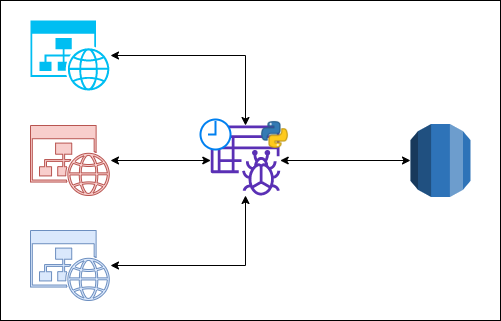
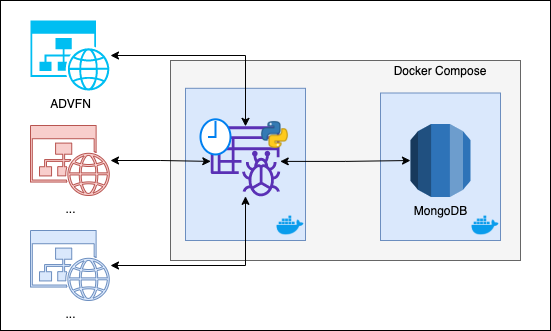
documentando

diff --git a/README.md b/README.md
@@ -5,8 +5,45 @@ Este projeto contem uma aplicação que realiza o processo de coleta de fatos e 
 Atualmente, temos os seguintes portais integrados a solução:
 - https://br.advfn.com/
 
-Os dados são coletados, regularmente, por um *web scrapper* e armezenados em banco de dados PostgreSQL.
+Os dados são coletados, regularmente, por um *web scrapper* e armezenados em banco de dados MongoDB.
 
 ![process-diagram](assets/enju3-scrapper.png)
+
+## Dependências
+
+Este projeto utiliza as seguinte tecnologias:
+
+- Python: linguagem de programação utilizada para implementação do scrapper utilizando as seguinte bibliotecas
+  - ABC: para criação de classe abstrata do scrapper, que poderá ser implementada para novos portais/sites
+  - Logging: para criação de logs da aplicação
+  - Requests: para realizar as requisições aos sites
+  - PyMongo: para interagir com o MongoDB
+  - BS4: para interagir com o conteúdo HTML da página
+- Docker: para encapsular tanto aplicação de scrapping quanto o banco MongoDB
+- Docker Compose: para orquestração dos contêineres do serviço
+
+## Como executar
+
+Para a execução deste projeto se faz necessário as instalação do docker e do docker-compose.
+
+Executando o comando abaixo serão provisionados todos os containeres do serviço <strike>(ou assim deveria)</strike>, o MongoDB ficará exposto na porta 27018 da sua máquina e, após a primeira execução do scrapper, os dados capturado deverão estar disponíveis no database *scraper* na collection *enju3*.
+
+```bash
+docker-compose up
+```
+
+## Trabalhos Futuros
+
+1. Implementar lógica para não persistir notícias já persisitidas
+
+2. Implementar scrapper para os comentários das notícias
+
+3. Limpeza e tokenização do título e corpo das notícias e dos comentário
+
+4. Análise de sentimento da notícia e dos comentários
+
+   
+
+
 
  
